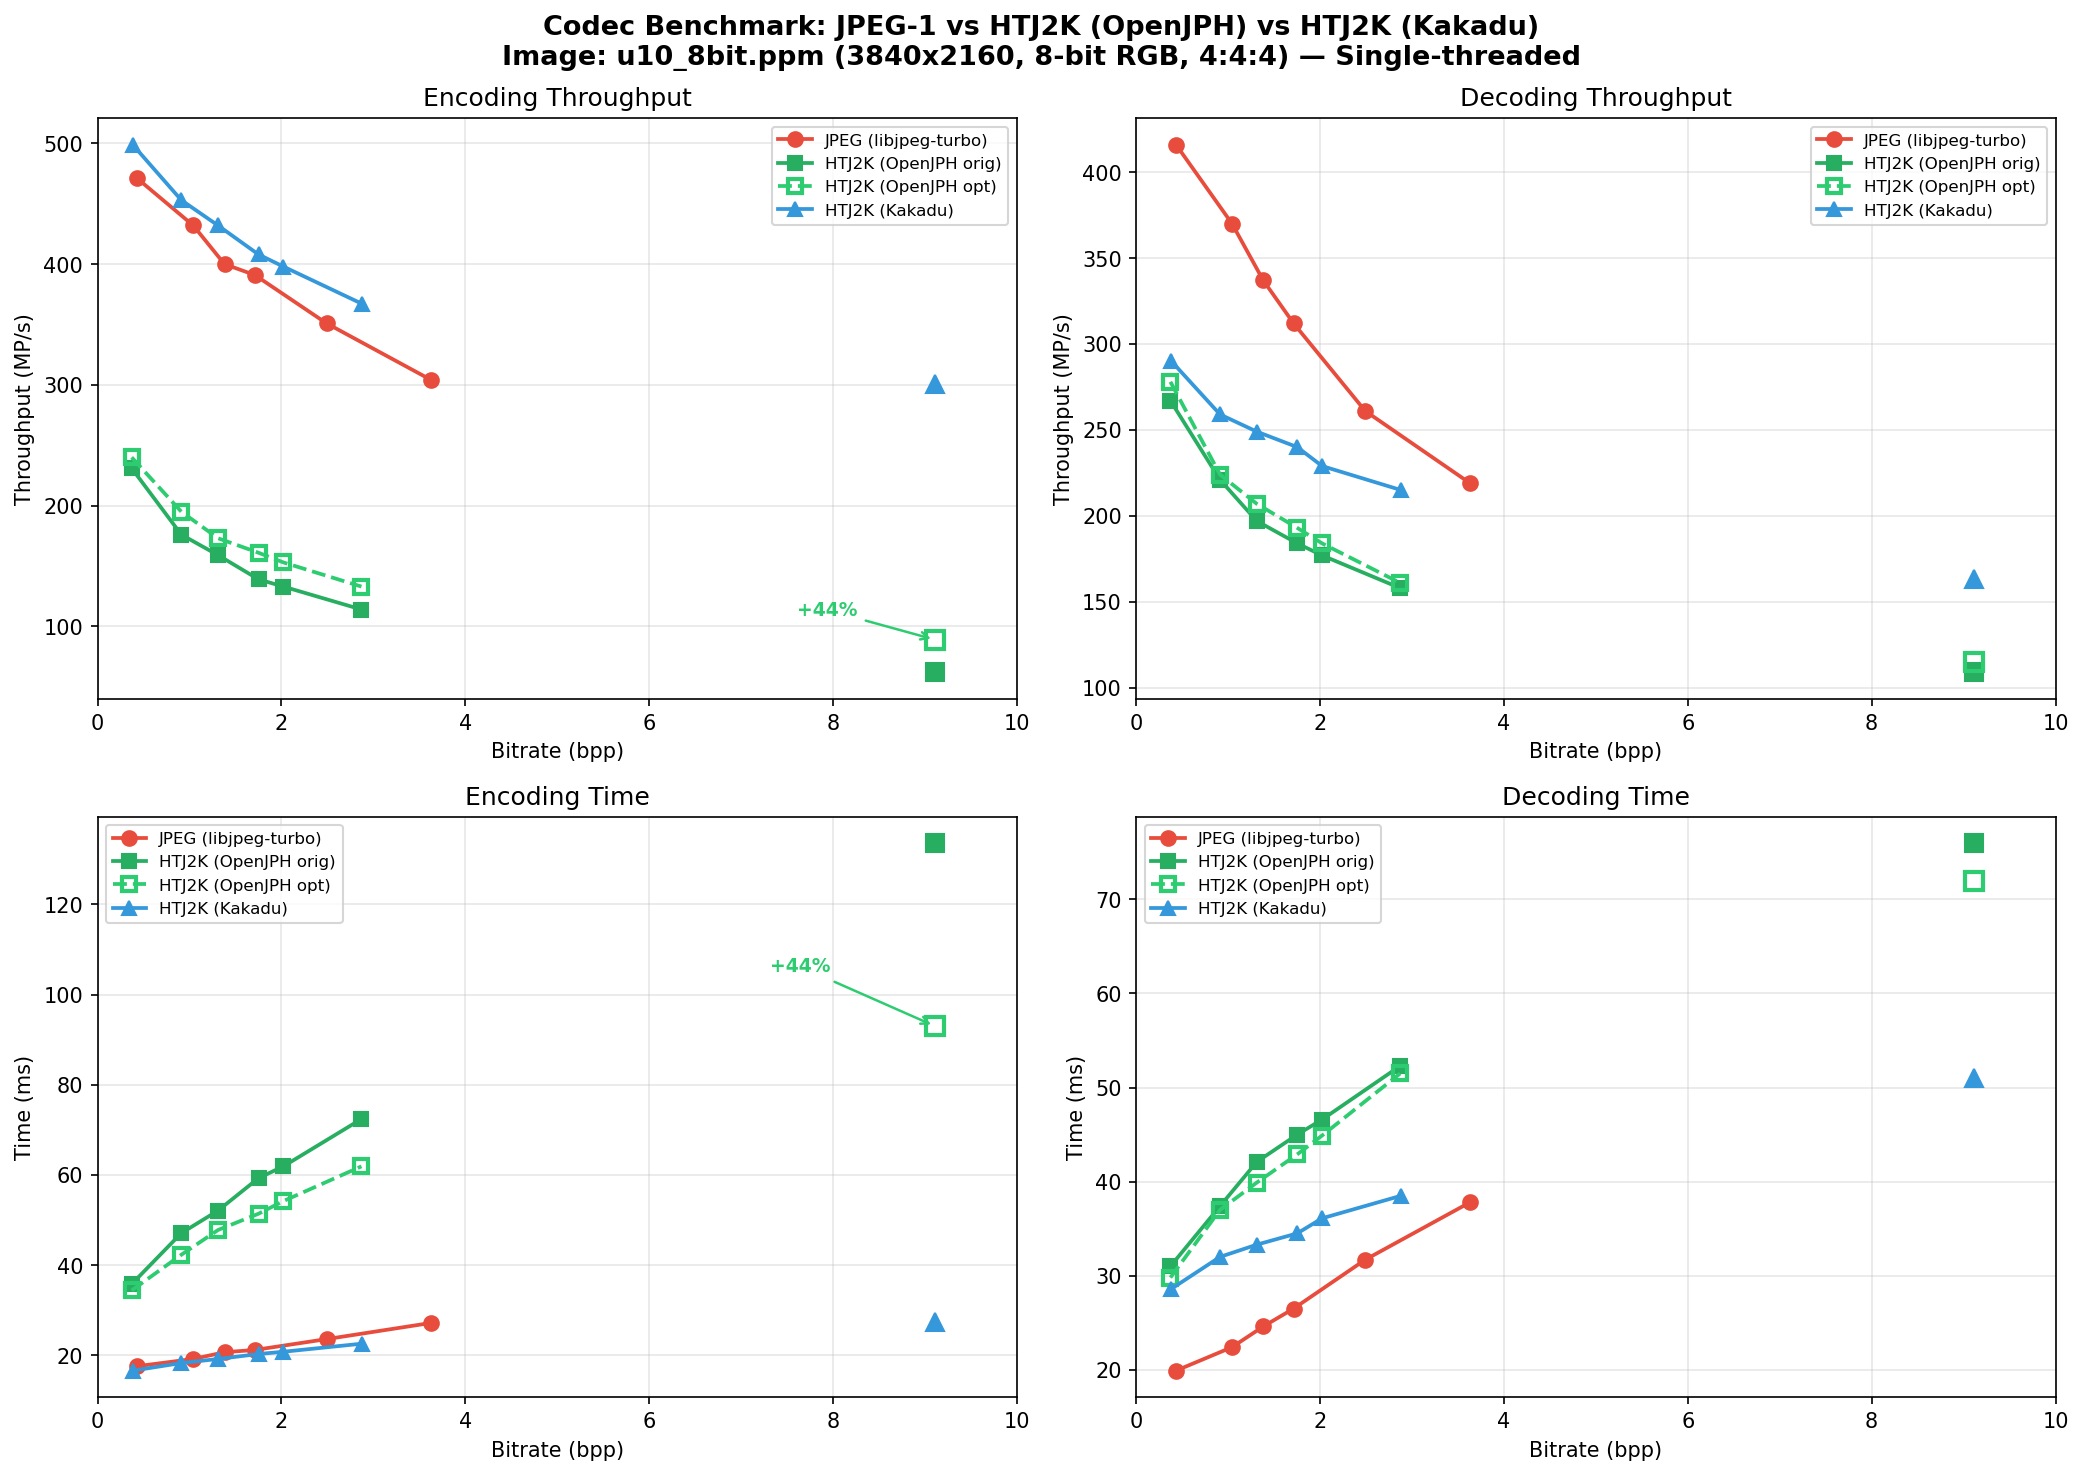
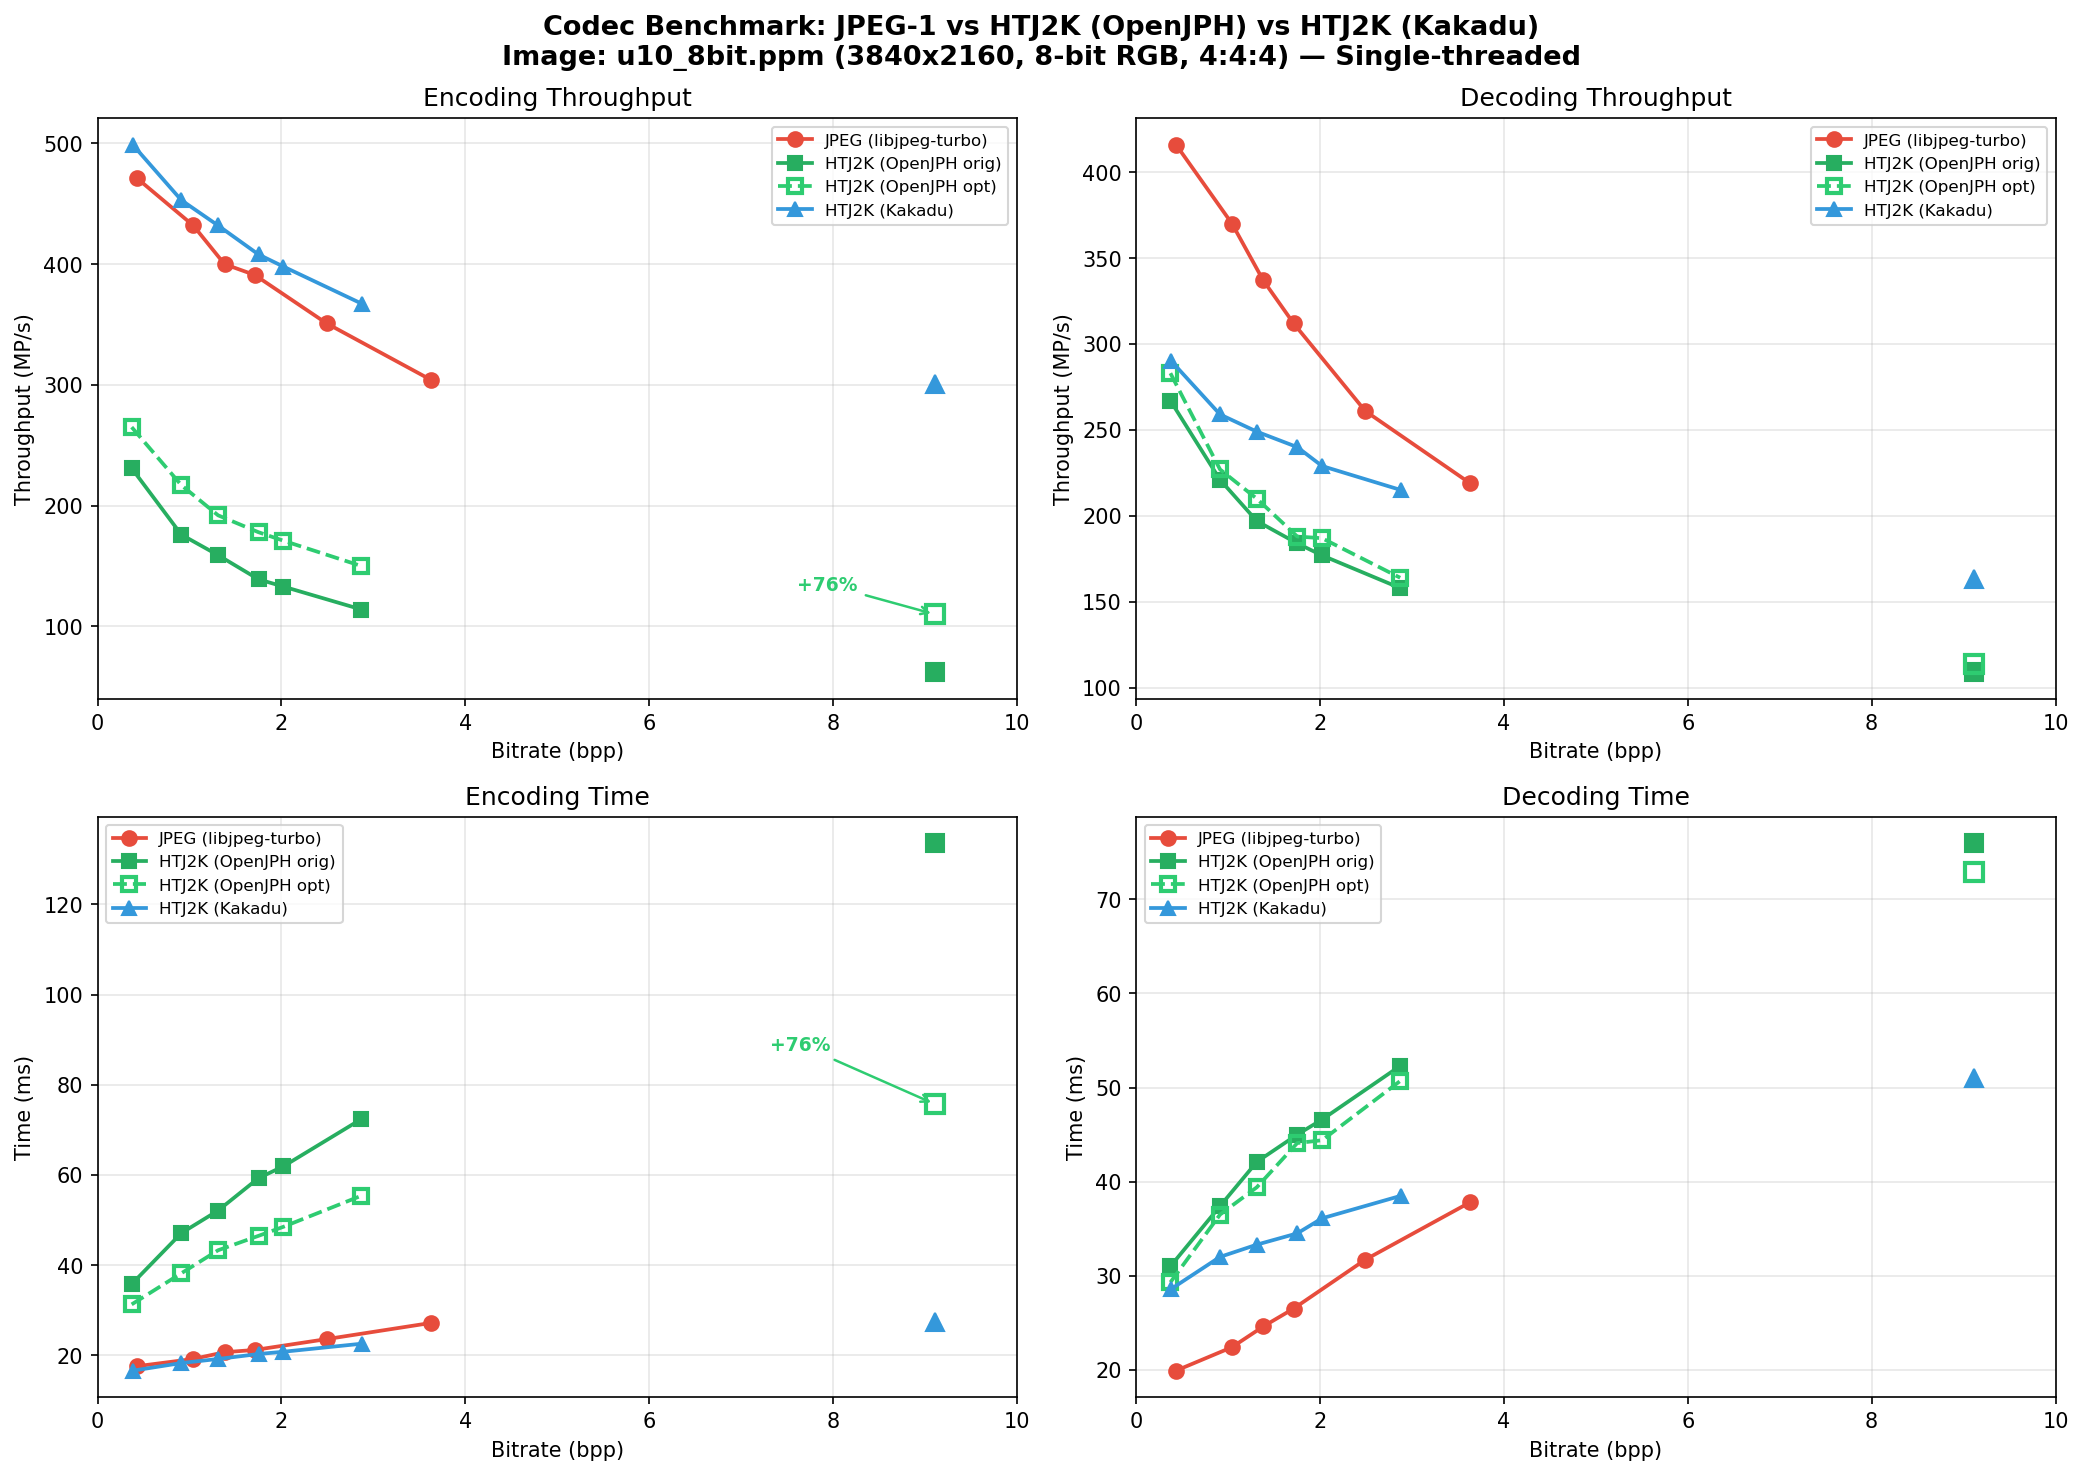
Update benchmark results with bulk drain encoder performance
Lossless encode: 62 → 110 MP/s (+76% vs original, +23% vs prior opt).
Lossy encode avg: 158 → 196 MP/s (+24%). Kakadu gap narrows from
4.85x to 2.74x lossless, 2.79x to 2.25x lossy.

diff --git a/generate_plot.py b/generate_plot.py
@@ -23,8 +23,8 @@ ojph_enc_ms  = [35.8, 47.1, 52.1, 59.3, 61.9, 72.4]
 kdu_enc_ms   = [16.6, 18.3, 19.2, 20.3, 20.8, 22.6]
 
 # Optimized OpenJPH encoding (internal Elapsed time)
-ojph_opt_enc_mps = [240, 195, 173, 161, 153, 133]
-ojph_opt_enc_ms  = [34.4, 42.3, 47.8, 51.4, 54.2, 61.9]
+ojph_opt_enc_mps = [265, 217, 192, 178, 171, 150]
+ojph_opt_enc_ms  = [31.3, 38.2, 43.3, 46.5, 48.5, 55.4]
 
 # Original decoding throughput (MP/s)
 jpeg_dec_mps  = [416, 370, 337, 312, 261, 219]
@@ -37,22 +37,22 @@ ojph_dec_ms  = [31.0, 37.4, 42.1, 45.0, 46.6, 52.3]
 kdu_dec_ms   = [28.6, 32.0, 33.3, 34.5, 36.1, 38.5]
 
 # Optimized OpenJPH decoding (internal Elapsed time)
-ojph_opt_dec_mps = [278, 224, 207, 193, 184, 161]
-ojph_opt_dec_ms  = [29.8, 37.0, 39.9, 42.9, 44.9, 51.5]
+ojph_opt_dec_mps = [283, 227, 210, 188, 187, 164]
+ojph_opt_dec_ms  = [29.3, 36.5, 39.4, 44.1, 44.4, 50.7]
 
 # Lossless data points
 ll_bpp = 9.11
 ojph_ll_enc_orig_mps = 62
-ojph_ll_enc_opt_mps = 89
+ojph_ll_enc_opt_mps = 110
 kdu_ll_enc_mps = 301
 ojph_ll_enc_orig_ms = 133.6
-ojph_ll_enc_opt_ms = 93.0
+ojph_ll_enc_opt_ms = 75.7
 kdu_ll_enc_ms = 27.5
 ojph_ll_dec_orig_mps = 109
-ojph_ll_dec_opt_mps = 115
+ojph_ll_dec_opt_mps = 114
 kdu_ll_dec_mps = 163
 ojph_ll_dec_orig_ms = 76.0
-ojph_ll_dec_opt_ms = 72.0
+ojph_ll_dec_opt_ms = 72.9
 kdu_ll_dec_ms = 51.0
 
 # Colors
@@ -81,7 +81,7 @@ ax.plot(kdu_bpp, kdu_enc_mps, '^-', color=C_KDU, label='HTJ2K (Kakadu)', ms=ms, 
 ax.plot(ll_bpp, ojph_ll_enc_orig_mps, 's', color=C_OJPH, ms=ms+2)
 ax.plot(ll_bpp, ojph_ll_enc_opt_mps, 's', color=C_OJPH_OPT, ms=ms+2, markerfacecolor='none', markeredgewidth=2)
 ax.plot(ll_bpp, kdu_ll_enc_mps, '^', color=C_KDU, ms=ms+2)
-ax.annotate('+44%', xy=(ll_bpp, ojph_ll_enc_opt_mps),
+ax.annotate('+76%', xy=(ll_bpp, ojph_ll_enc_opt_mps),
             xytext=(ll_bpp - 1.5, ojph_ll_enc_opt_mps + 20),
             fontsize=9, fontweight='bold', color=C_OJPH_OPT,
             arrowprops=dict(arrowstyle='->', color=C_OJPH_OPT, lw=1.2))
@@ -117,7 +117,7 @@ ax.plot(kdu_bpp, kdu_enc_ms, '^-', color=C_KDU, label='HTJ2K (Kakadu)', ms=ms, l
 ax.plot(ll_bpp, ojph_ll_enc_orig_ms, 's', color=C_OJPH, ms=ms+2)
 ax.plot(ll_bpp, ojph_ll_enc_opt_ms, 's', color=C_OJPH_OPT, ms=ms+2, markerfacecolor='none', markeredgewidth=2)
 ax.plot(ll_bpp, kdu_ll_enc_ms, '^', color=C_KDU, ms=ms+2)
-ax.annotate('+44%', xy=(ll_bpp, ojph_ll_enc_opt_ms),
+ax.annotate('+76%', xy=(ll_bpp, ojph_ll_enc_opt_ms),
             xytext=(ll_bpp - 1.8, ojph_ll_enc_opt_ms + 12),
             fontsize=9, fontweight='bold', color=C_OJPH_OPT,
             arrowprops=dict(arrowstyle='->', color=C_OJPH_OPT, lw=1.2))

diff --git a/benchmark_results.md b/benchmark_results.md
@@ -45,7 +45,8 @@ comparable bitrates.
 AVX-512 encoder optimizations applied to OpenJPH on the same hardware and
 image. Changes: AVX-512 reversible wavelet + colour transforms, block encoder
 VLC/MagSgn batching, template dispatch for inlining, widened MagSgn
-accumulator, branchless byte drain, AVX-512 rev_tx_to_cb32.
+accumulator, branchless byte drain, AVX-512 rev_tx_to_cb32, speculative bulk
+MagSgn drain with SWAR 0xFF detection and deferred accumulation (-mbmi2).
 
 ### Encoding (optimized)
 
@@ -54,55 +55,54 @@ Kakadu `-cpu 0`. Both include file I/O.
 
 | Qstep | Qfactor | OJPH bpp | OJPH orig (s) | OJPH opt (s) | KDU (s) | OJPH orig (MP/s) | OJPH opt (MP/s) | KDU (MP/s) | Speedup |
 |------:|--------:|----------|---------------|--------------|---------|-------------------|-----------------|------------|---------|
-| 0.15  | 10      | .37      | .0358         | .0344        | .0164   | 231               | 240             | 504        | +4%     |
-| 0.06  | 50      | .91      | .0471         | .0423        | .0174   | 176               | 195             | 475        | +11%    |
-| 0.038 | 70      | 1.31     | .0521         | .0478        | .0183   | 159               | 173             | 453        | +9%     |
-| 0.025 | 80      | 1.75     | .0593         | .0514        | .0196   | 139               | 161             | 422        | +16%    |
-| 0.02  | 90      | 2.02     | .0619         | .0542        | .0202   | 133               | 153             | 410        | +15%    |
-| 0.011 | 95      | 2.87     | .0724         | .0619        | .0218   | 114               | 133             | 380        | +17%    |
-| lossless | —    | 9.11     | .1336         | .0930        | .0275   | 62                | 89              | 301        | +44%    |
+| 0.15  | 10      | .37      | .0358         | .0313        | .0164   | 231               | 265             | 504        | +15%    |
+| 0.06  | 50      | .91      | .0471         | .0382        | .0174   | 176               | 217             | 475        | +23%    |
+| 0.038 | 70      | 1.31     | .0521         | .0433        | .0183   | 159               | 192             | 453        | +21%    |
+| 0.025 | 80      | 1.75     | .0593         | .0465        | .0196   | 139               | 178             | 422        | +28%    |
+| 0.02  | 90      | 2.02     | .0619         | .0485        | .0202   | 133               | 171             | 410        | +29%    |
+| 0.011 | 95      | 2.87     | .0724         | .0554        | .0218   | 114               | 150             | 380        | +31%    |
+| lossless | —    | 9.11     | .1336         | .0757        | .0275   | 62                | 110             | 301        | +76%    |
 
 ### Decoding (optimized)
 
 | Qstep | Qfactor | OJPH bpp | OJPH orig (s) | OJPH opt (s) | KDU (s) | OJPH orig (MP/s) | OJPH opt (MP/s) | KDU (MP/s) |
 |------:|--------:|----------|---------------|--------------|---------|-------------------|-----------------|------------|
-| 0.15  | 10      | .37      | .0310         | .0298        | .0287   | 267               | 278             | 288        |
-| 0.06  | 50      | .91      | .0374         | .0370        | .0322   | 221               | 224             | 257        |
-| 0.038 | 70      | 1.31     | .0421         | .0399        | .0332   | 197               | 207             | 249        |
-| 0.025 | 80      | 1.75     | .0450         | .0429        | .0351   | 184               | 193             | 236        |
-| 0.02  | 90      | 2.02     | .0466         | .0449        | .0369   | 177               | 184             | 224        |
-| 0.011 | 95      | 2.87     | .0523         | .0515        | .0389   | 158               | 161             | 213        |
-| lossless | —    | 9.11     | .0760         | .0720        | .0510   | 109               | 115             | 163        |
+| 0.15  | 10      | .37      | .0310         | .0293        | .0287   | 267               | 283             | 288        |
+| 0.06  | 50      | .91      | .0374         | .0365        | .0322   | 221               | 227             | 257        |
+| 0.038 | 70      | 1.31     | .0421         | .0394        | .0332   | 197               | 210             | 249        |
+| 0.025 | 80      | 1.75     | .0450         | .0441        | .0351   | 184               | 188             | 236        |
+| 0.02  | 90      | 2.02     | .0466         | .0444        | .0369   | 177               | 187             | 224        |
+| 0.011 | 95      | 2.87     | .0523         | .0507        | .0389   | 158               | 164             | 213        |
+| lossless | —    | 9.11     | .0760         | .0729        | .0510   | 109               | 114             | 163        |
 
 ### Summary (updated)
 
 | Metric | JPEG | OJPH (orig) | OJPH (opt) | Kakadu |
 |--------|-----:|------------:|-----------:|-------:|
-| Avg encode throughput (MP/s), lossy | 391 | 158 | 176 | 441 |
-| Encode throughput (MP/s), lossless | — | 62 | 89 | 301 |
-| Avg decode throughput (MP/s), lossy | 319 | 200 | 208 | 245 |
-| Decode throughput (MP/s), lossless | — | 109 | 115 | 163 |
+| Avg encode throughput (MP/s), lossy | 391 | 158 | 196 | 441 |
+| Encode throughput (MP/s), lossless | — | 62 | 110 | 301 |
+| Avg decode throughput (MP/s), lossy | 319 | 200 | 210 | 245 |
+| Decode throughput (MP/s), lossless | — | 109 | 114 | 163 |
 
 | Comparison (lossy avg) | Encode | Decode |
 |------------------------|-------:|-------:|
-| Kakadu / OJPH (opt)    | 2.51x  | 1.18x  |
+| Kakadu / OJPH (opt)    | 2.25x  | 1.17x  |
 | Kakadu / OJPH (orig)   | 2.79x  | 1.22x  |
 
 | Comparison (lossless)  | Encode | Decode |
 |------------------------|-------:|-------:|
-| Kakadu / OJPH (opt)    | 3.38x  | 1.42x  |
+| Kakadu / OJPH (opt)    | 2.74x  | 1.43x  |
 | Kakadu / OJPH (orig)   | 4.85x  | 1.50x  |
 
 ### Optimization impact by operating point
 
-The encoder speedup is **strongest at high bitrates and lossless** (44% for
-lossless, 15-17% at high quality) where the block encoder processes more
-non-zero coefficients. At low bitrates (Qstep=0.15), most coefficients are
-quantized to zero and the block encoder is not the bottleneck — speedup is
-modest (+4%).
+The encoder speedup is **strongest at high bitrates and lossless** (76% for
+lossless, 23-31% at mid-to-high quality) where the block encoder processes
+more non-zero coefficients. Even at low bitrates (Qstep=0.15), the bulk
+drain optimization provides a meaningful 15% speedup.
 
-Decode performance also shows modest improvement (5-6% at mid-range bitrates)
-from the AVX-512 wavelet and colour transforms.
+Decode performance is essentially unchanged (the optimization targets the
+encoder only). Small variations from the prior measurement are within noise.
 
 ## Plot
 
@@ -110,11 +110,11 @@ from the AVX-512 wavelet and colour transforms.
 
 ## Observations
 
-- **Encoding:** Kakadu's HT block encoder is 2.51x faster than optimized
+- **Encoding:** Kakadu's HT block encoder is 2.25x faster than optimized
   OpenJPH for lossy (down from 2.79x). The gap narrows at higher bitrates.
-- **Lossless encoding:** The optimized encoder achieves 89 MP/s, a 44%
-  improvement over the original 62 MP/s. Kakadu lossless is 3.38x faster.
-- **Decoding:** Kakadu is about 1.18x faster than OpenJPH for lossy, 1.42x
+- **Lossless encoding:** The optimized encoder achieves 110 MP/s, a 76%
+  improvement over the original 62 MP/s. Kakadu lossless is 2.74x faster.
+- **Decoding:** Kakadu is about 1.17x faster than OpenJPH for lossy, 1.43x
   for lossless. libjpeg-turbo remains the fastest decoder overall.
 - **File-size parity:** With the same Qstep and `-no_weights`, both HTJ2K
   encoders produce virtually identical file sizes, confirming equivalent